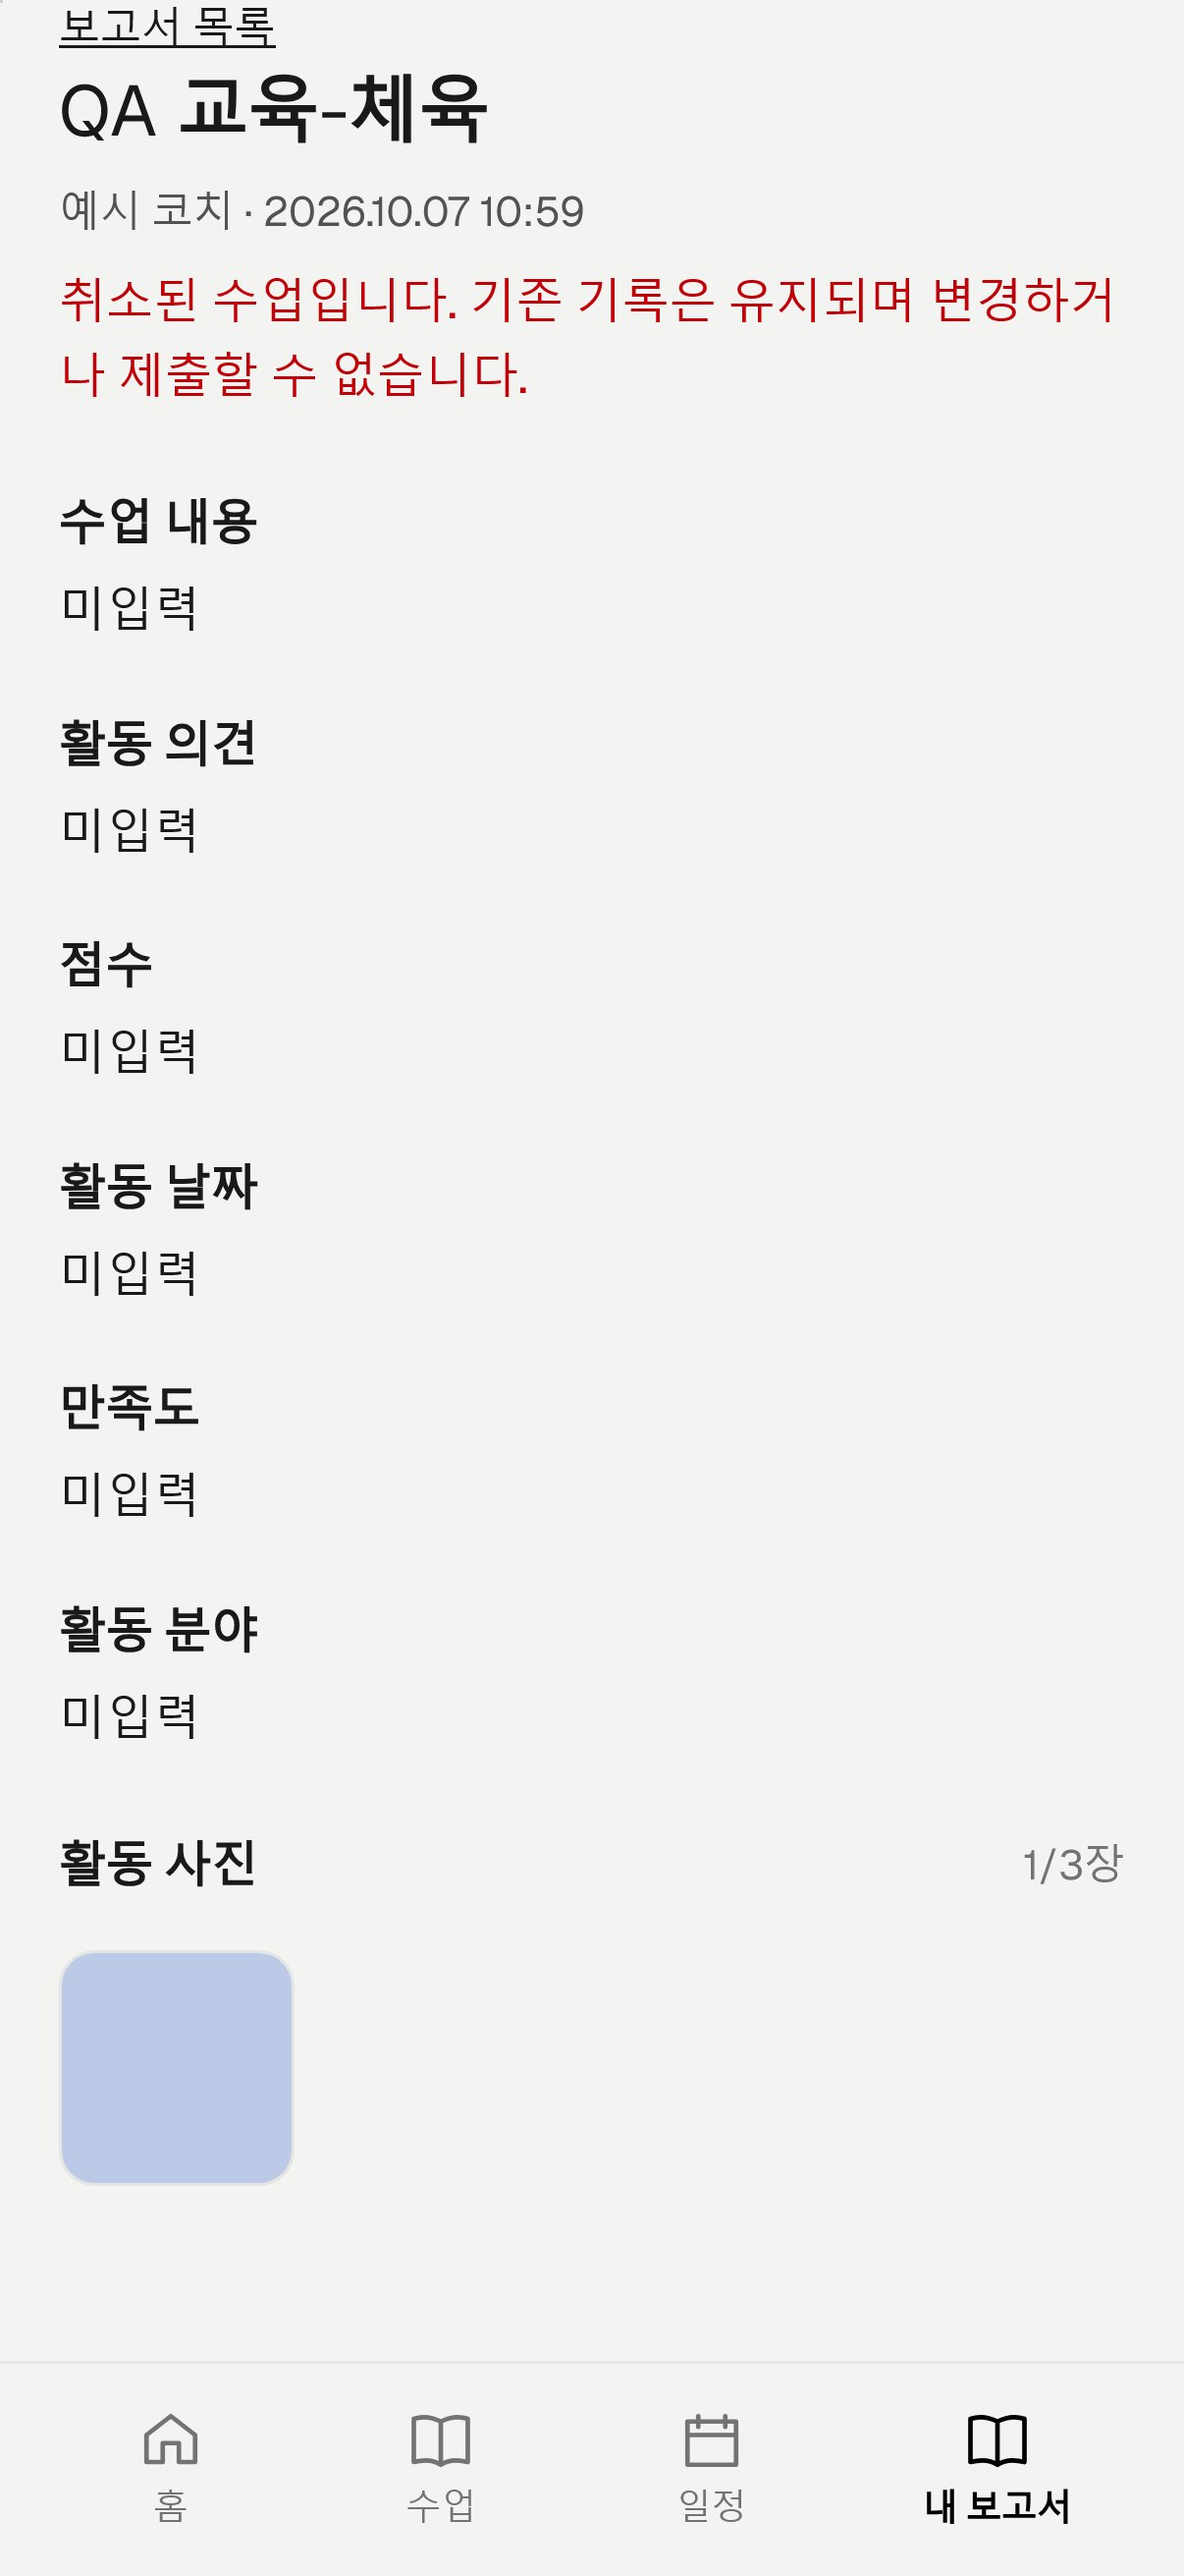
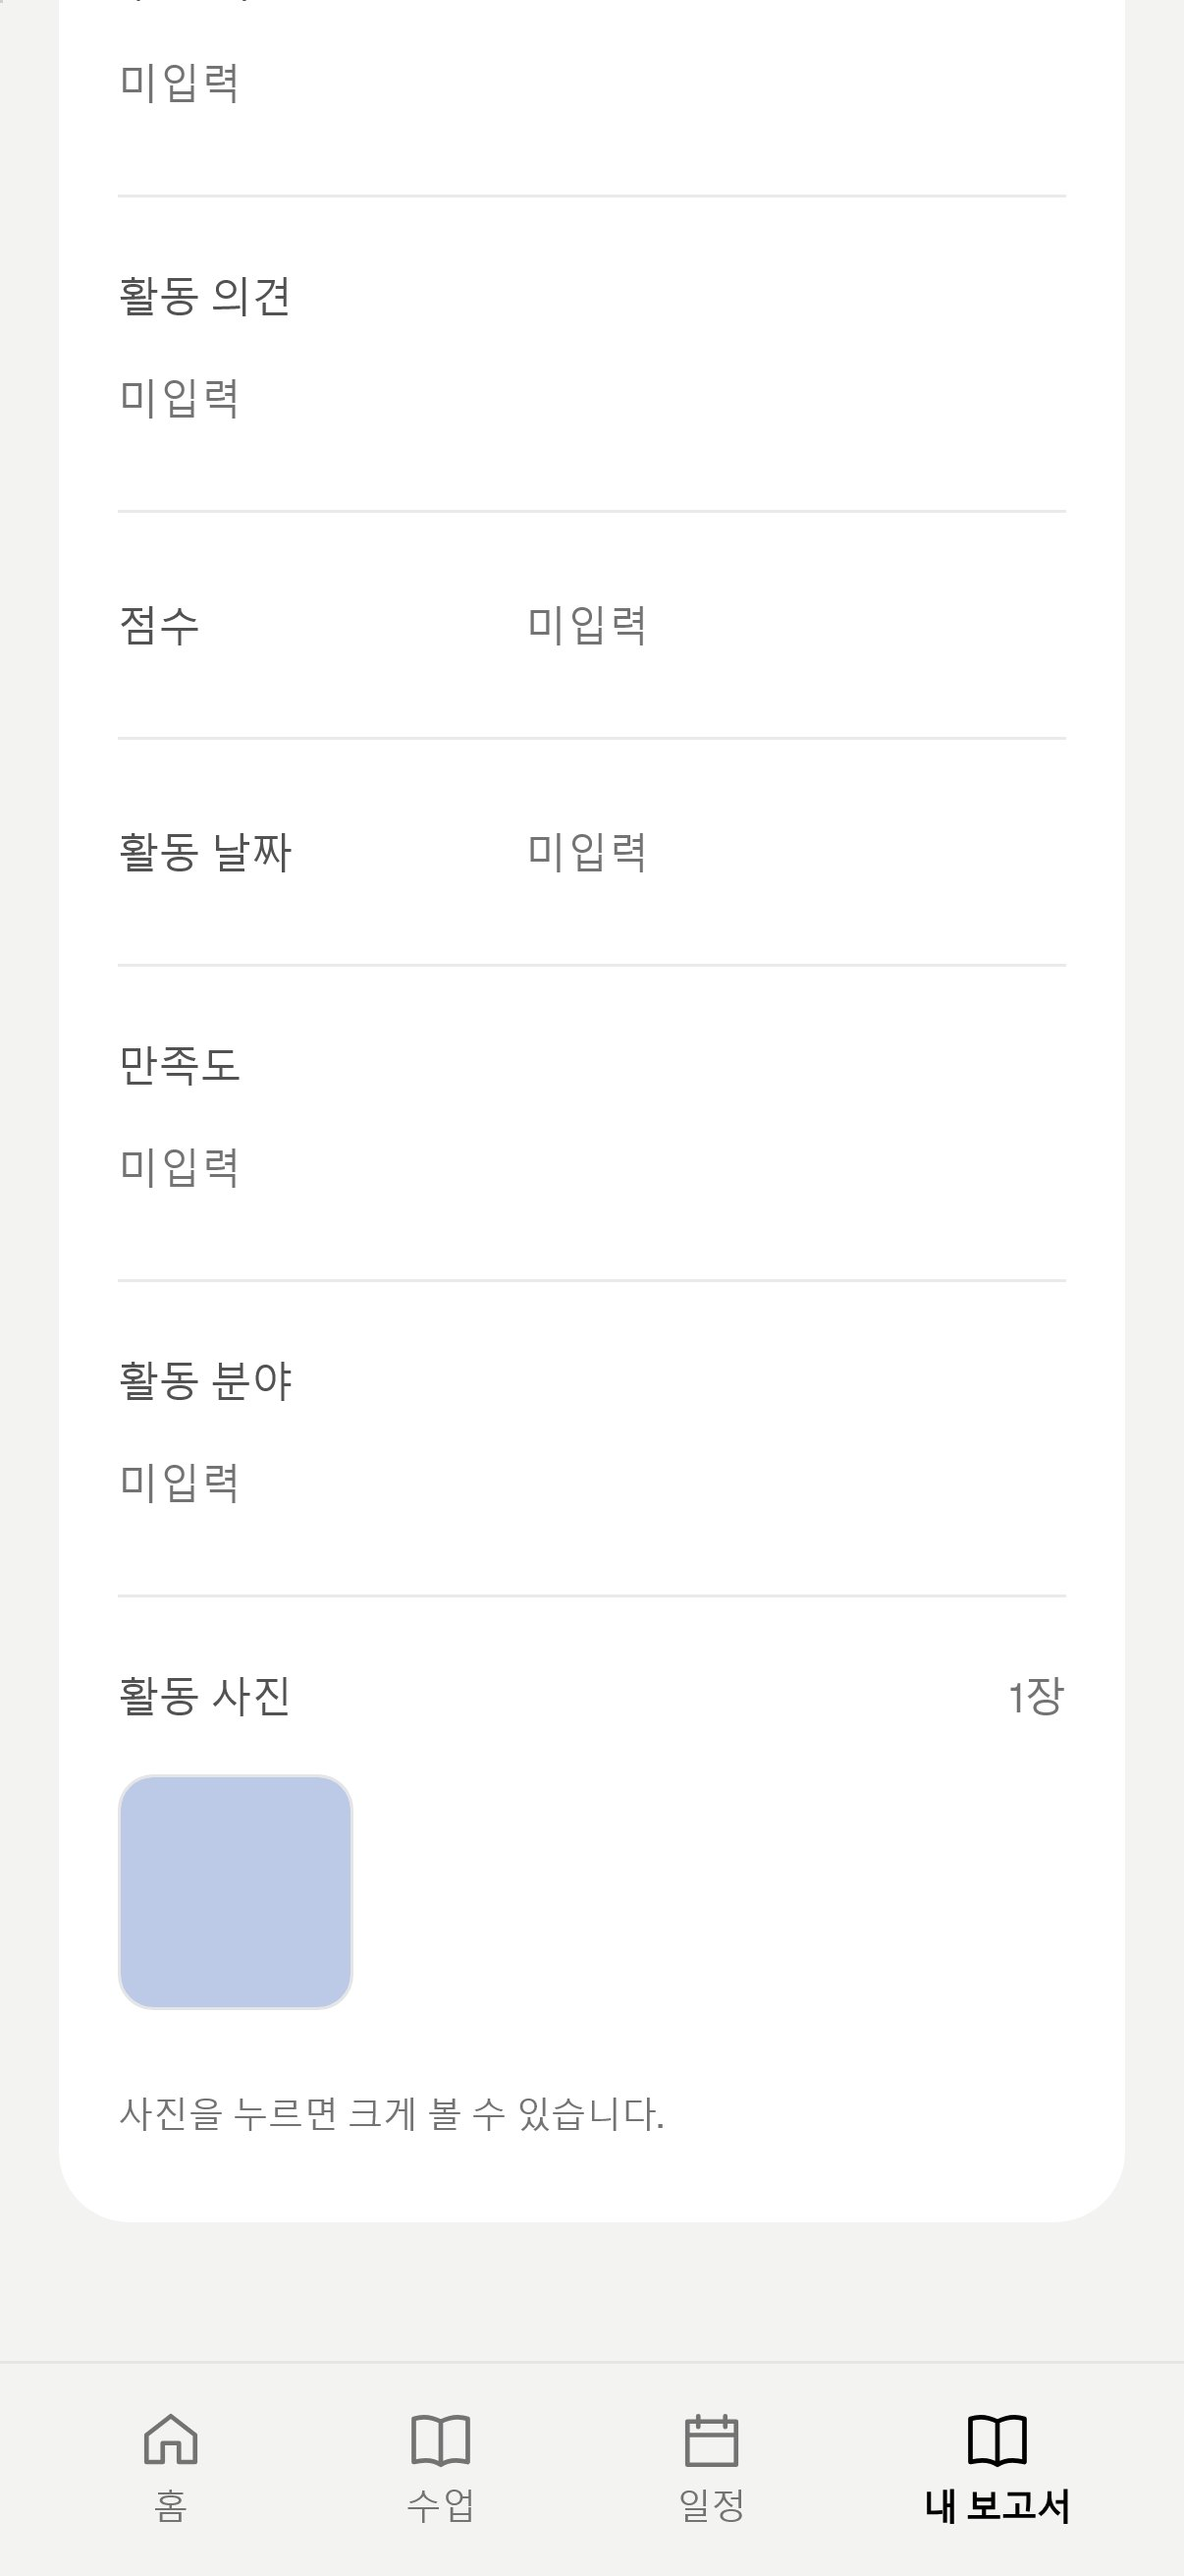
fix: keep mobile Home touch clear in development and refresh report guide

diff --git a/next.config.test.ts b/next.config.test.ts
@@ -2,6 +2,9 @@ import { describe, expect, it } from "vitest";
 import nextConfig from "./next.config";
 
 describe("root route configuration", () => {
+  it("keeps the development badge from intercepting the mobile Home menu", () => {
+    expect(nextConfig.devIndicators).toBe(false);
+  });
   it("redirects the root URL to login before rendering a landing page", async () => {
     expect(nextConfig.redirects).toBeTypeOf("function");
 

diff --git a/next.config.ts b/next.config.ts
@@ -1,6 +1,9 @@
 import type { NextConfig } from "next";
 
 const nextConfig: NextConfig = {
+  // The bottom-left development badge overlaps mobile Home. This disables
+  // only the badge; Next compile/runtime error reporting remains enabled.
+  devIndicators: false,
   outputFileTracingIncludes: { "/api/exports": ["./assets/fonts/**/*"] },
   async redirects() {
     return [

diff --git a/README.md b/README.md
@@ -283,6 +283,8 @@ npm run bootstrap:admin -- <AUTH_USER_UUID>
 
 패치는 개발용 Flight 클라이언트 6개에만 적용하고 운영 번들은 변경하지 않습니다. Next 버전·원본 SHA-256이 다르면 설치를 실패시켜 검토를 요구합니다. Next를 업데이트할 때 공식 수정 포함 여부를 확인한 후 [패치 스크립트](scripts/patch-next-rsc-performance.mjs)와 `postinstall`/`predev`를 함께 제거하거나 갱신하세요. `--ignore-scripts` 설치 후에는 개발 서버 시작 또는 패치 스크립트를 직접 실행해야 합니다.
 
+모바일 하단 홈 메뉴를 가리는 개발 배지는 `devIndicators: false`로 비활성화했습니다. 컴파일·런타임 오류 표시는 그대로 유지됩니다. 실제 메뉴/touch 비교 검증은 `scripts/qa-native-menu.mjs`를 사용하고, 로컬 빌드의 요청 취소 분석은 `node scripts/qa-local-server.mjs 3001`로 실행합니다. 이 서버 보조 도구의 요청 추적은 개발 앱·Vercel 운영에는 적용하지 않습니다.
+
 개발(`http://localhost:3000`)과 운영 앱은 현재 같은 Supabase를 사용합니다. 테스트 업무 데이터는 별도 QA 워크스페이스에 격리하고 실사용자의 계정·권한·업무 데이터는 변경하지 않습니다. 환경별 Supabase 분리는 별도 운영 과제입니다.
 
 ```bash

diff --git a/qa/aside/smoke.md b/qa/aside/smoke.md
@@ -22,7 +22,7 @@ Aside의 창 크기 설정 API가 없으면 동일 출처의 임시 iframe을 39
 | ----- | ------------------------ | ----------------- | ----------------------------------- |
 | 1-b-A | 홈에서 수업 목록 이동    | 상단 확인         | 로고 없이 좌측 상단 뒤로가기만 표시 |
 | 1-b-B | 수업 목록→상세 이동 이력 | 뒤로가기 클릭     | 직전 목록으로 복귀, 오류 없음       |
-| 1-b-C | 홈 외 화면               | 하단 홈 메뉴 클릭 | 홈에서는 뒤로가기 대신 로고 복원    |
+| 1-b-C | 홈 외 화면               | 하단 홈 메뉴 클릭 | 개발·빌드 모드 모두 다른 요소가 터치를 가로막지 않고 홈에서 뒤로가기 대신 로고 복원 |
 
 ## 1-c 화면·접근성·대기
 
